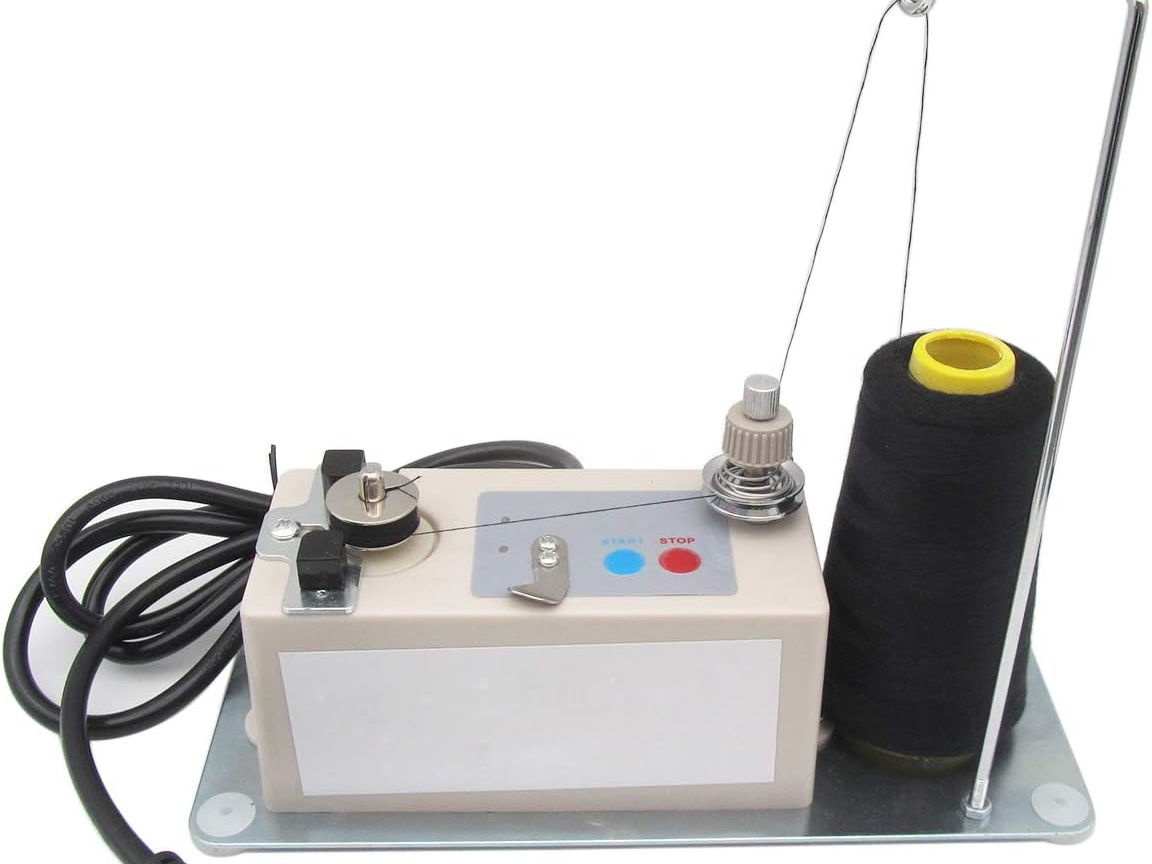
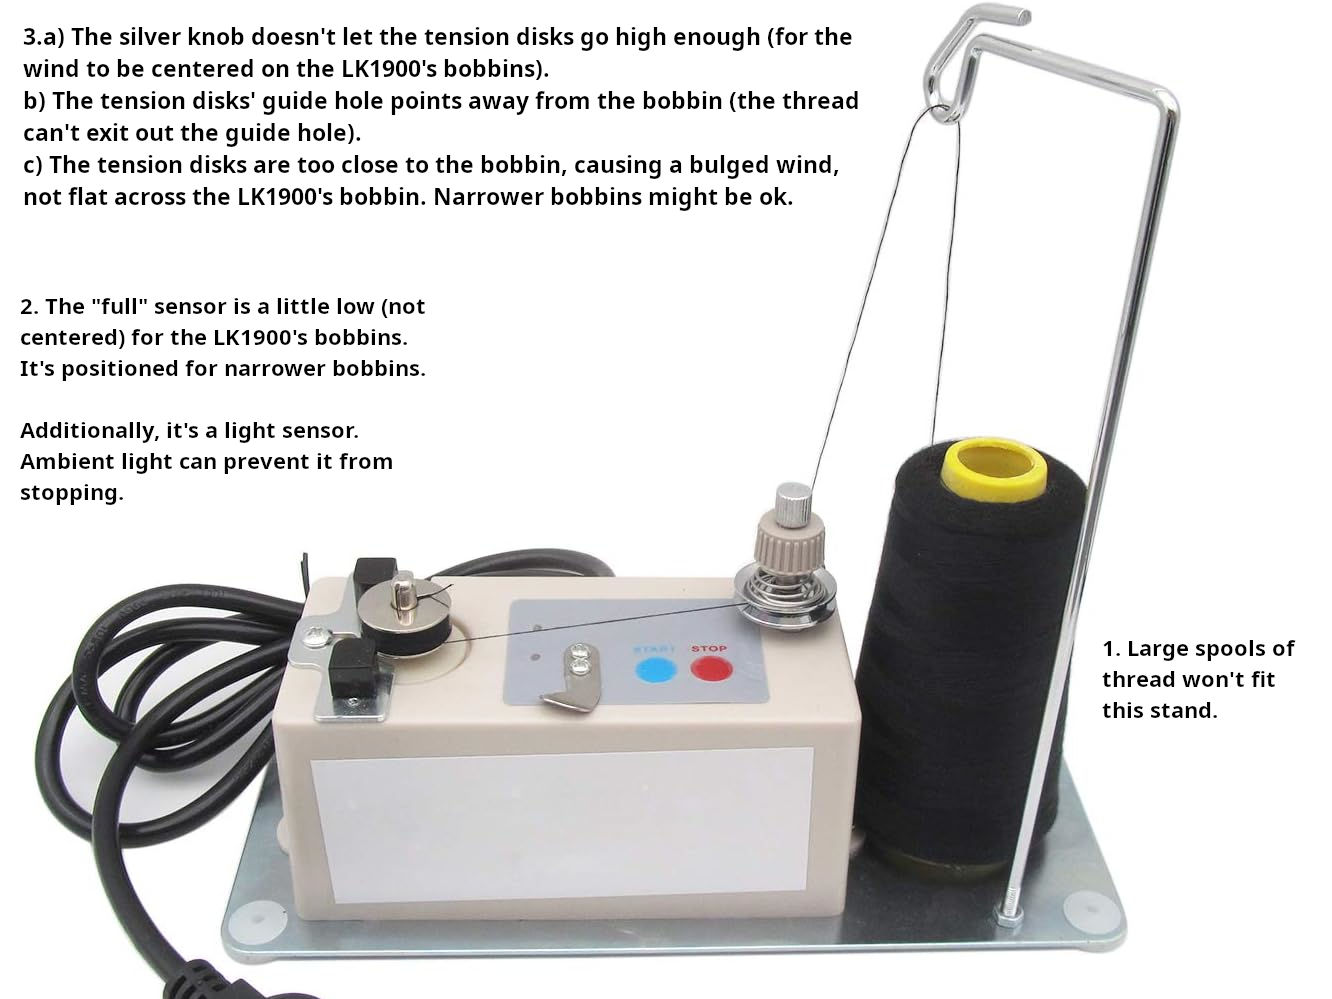
winder photo

diff --git a/docs/images/index.html b/docs/images/index.html
@@ -100,7 +100,7 @@ document.body.classList.add(storedDisplay)
 <tr><td><a href="lk1900-bobbin-case.jpg" title="lk1900-bobbin-case.jpg">lk1900-bobbin-case.jpg</a></td><td>2025-09-19 10:35:15</td><td>150K</td><td>LK1900 bobbin-case (bobbin installed correctly)</td></tr>
 <tr><td><a href="lk1900-bobbin-drilled-inside.jpg" title="lk1900-bobbin-drilled-inside.jpg">lk1900-bobbin-drilled-inside.jpg</a></td><td>2025-09-14 02:33:46</td><td>103K</td><td>LK1900 bobbin drilled for easier winding (inside view)</td></tr>
 <tr><td><a href="lk1900-bobbin-drilled-outside.jpg" title="lk1900-bobbin-drilled-outside.jpg">lk1900-bobbin-drilled-outside.jpg</a></td><td>2025-09-14 02:35:22</td><td>132K</td><td>LK1900 bobbin drilled for easier winding (outside view)</td></tr>
-<tr><td><a href="lk1900-bobbin-winder-standalone.jpg" title="lk1900-bobbin-winder-standalone.jpg">lk1900-bobbin-winder-standalone.jpg</a></td><td>2025-09-23 15:40:20</td><td>71K</td><td>Standalone bobbin winder which works with LK1900 bobbins</td></tr>
+<tr><td><a href="lk1900-bobbin-winder-standalone.jpg" title="lk1900-bobbin-winder-standalone.jpg">lk1900-bobbin-winder-standalone.jpg</a></td><td>2026-07-19 06:31:19</td><td>138K</td><td>Standalone bobbin winder which works with LK1900 bobbins</td></tr>
 <tr><td><a href="lk1900-collar-large-buckle-clamped.jpg" title="lk1900-collar-large-buckle-clamped.jpg">lk1900-collar-large-buckle-clamped.jpg</a></td><td>2025-09-14 02:42:37</td><td>195K</td><td>LK1900 - making a 1" collar: clamped at buckle</td></tr>
 <tr><td><a href="lk1900-collar-large-ring-buckleside-clamped.jpg" title="lk1900-collar-large-ring-buckleside-clamped.jpg">lk1900-collar-large-ring-buckleside-clamped.jpg</a></td><td>2025-09-14 02:45:58</td><td>249K</td><td>LK1900 - making a 1" collar: clamped at ring (buckle side)</td></tr>
 <tr><td><a href="lk1900-collar-large-ring-tailside-clamped.jpg" title="lk1900-collar-large-ring-tailside-clamped.jpg">lk1900-collar-large-ring-tailside-clamped.jpg</a></td><td>2025-09-14 02:45:24</td><td>224K</td><td>LK1900 - making a 1" collar: clamped at ring (tail side)</td></tr>
@@ -137,7 +137,7 @@ document.body.classList.add(storedDisplay)
 <tr><td><a href="lk1900-difficult-hingescrew-wiper.gif" title="lk1900-difficult-hingescrew-wiper.gif">lk1900-difficult-hingescrew-wiper.gif</a></td><td>2025-11-27 17:41:55</td><td>44K</td><td>Parts diagram of LK1900 wiper arm (a difficult hinge-screw)</td></tr>
 <tr><td><a href="lk1900-difficult-screw-arch-faceplate.gif" title="lk1900-difficult-screw-arch-faceplate.gif">lk1900-difficult-screw-arch-faceplate.gif</a></td><td>2025-11-27 18:57:54</td><td>53K</td><td>Parts diagram of LK1900 arch faceplate (difficult screws)</td></tr>
 <tr><td><a href="lk1900-difficult-screw-arch-lever-driving-plate.gif" title="lk1900-difficult-screw-arch-lever-driving-plate.gif">lk1900-difficult-screw-arch-lever-driving-plate.gif</a></td><td>2026-02-25 09:08:17</td><td>81K</td><td>Parts diagram of LK1900 arch lever driving plate (difficult screws)</td></tr>
-<tr><td><a href="lk1900-difficult-screw-cloth-feed-presser-plate.gif" title="lk1900-difficult-screw-cloth-feed-presser-plate.gif">lk1900-difficult-screw-cloth-feed-presser-plate.gif</a></td><td>2025-11-28 08:54:32</td><td>63K</td><td>Parts diagram of LK1900 cloth feed presser plate (difficult screws)</td></tr>
+<tr><td><a href="lk1900-difficult-screw-cloth-feed-presser-plate.gif" title="lk1900-difficult-screw-cloth-feed-presser-plate.gif">lk1900-difficult-screw-cloth-feed-presser-plate.gif</a></td><td>2026-07-04 16:20:37</td><td>64K</td><td>Parts diagram of LK1900 cloth feed presser plate (difficult screws)</td></tr>
 <tr><td><a href="lk1900-difficult-screw-cutter-lever-asm.gif" title="lk1900-difficult-screw-cutter-lever-asm.gif">lk1900-difficult-screw-cutter-lever-asm.gif</a></td><td>2026-03-14 16:33:55</td><td>43K</td><td>Parts diagram of LK1900 cutter lever asm (difficult screw)</td></tr>
 <tr><td><a href="lk1900-difficult-screw-needle-hole-guide.gif" title="lk1900-difficult-screw-needle-hole-guide.gif">lk1900-difficult-screw-needle-hole-guide.gif</a></td><td>2026-02-13 17:13:09</td><td>40K</td><td>Parts diagram of LK1900 needle-hole guide (difficult screws)</td></tr>
 <tr><td><a href="lk1900-difficult-screw-needle-plate.gif" title="lk1900-difficult-screw-needle-plate.gif">lk1900-difficult-screw-needle-plate.gif</a></td><td>2025-12-06 09:08:14</td><td>42K</td><td>Parts diagram of LK1900 needle plate (difficult screws)</td></tr>
